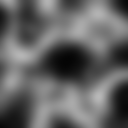
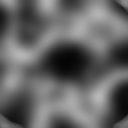
adds borders

Changed region(s): [[0.0, 0.875, 0.1875, 1.0], [0.875, 0.9062, 1.0, 1.0], [0.9062, 0.0, 1.0, 0.0938]]

diff --git a/public/app/scripts/game/client/gameSurface.js b/public/app/scripts/game/client/gameSurface.js
@@ -418,9 +418,10 @@ gameSurface.initHeightMap = function () {
 	
 	var grassTexture = new THREE.ImageUtils.loadTexture( this.MODELS_PATH + 'grass-512.png' );
 	grassTexture.wrapS = grassTexture.wrapT = THREE.RepeatWrapping; 
-	
+
 	var rockyTexture = new THREE.ImageUtils.loadTexture( this.MODELS_PATH + 'rock-512.png' );
 	rockyTexture.wrapS = rockyTexture.wrapT = THREE.RepeatWrapping; 
+	this.grassTexture = sandyTexture;
 
 	customUniforms = {
 		bumpScale: 		{ type: "f", value: this.bumpScale },
@@ -442,7 +443,6 @@ gameSurface.initHeightMap = function () {
 	}   
 	);
 
-	// var landGeometry = new THREE.CubeGeometry(gameContent.map.size.x * this.PIXEL_BY_NODE, gameContent.map.size.y * this.PIXEL_BY_NODE, 30);
 	this.landGeometry = new THREE.PlaneGeometry( gameContent.map.size.x * this.PIXEL_BY_NODE, gameContent.map.size.y * this.PIXEL_BY_NODE, 100, 100);
 
     this.planeSurface = new THREE.Mesh(this.landGeometry, customMaterial);
@@ -450,27 +450,66 @@ gameSurface.initHeightMap = function () {
     this.planeSurface.position.y = gameContent.map.size.y * this.PIXEL_BY_NODE / 2;
     this.planeSurface.position.z = -3;
 
-    // var under = new THREE.CubeGeometry( gameContent.map.size.x * this.PIXEL_BY_NODE, gameContent.map.size.y * this.PIXEL_BY_NODE, 30);
-
-    // var underSurface = new THREE.Mesh(under, new THREE.LineBasicMaterial( { color: '#007', opacity: 0.3, transparent: true} ));
-    // underSurface.position.x = gameContent.map.size.x * this.PIXEL_BY_NODE / 2 - 5;
-    // underSurface.position.y = gameContent.map.size.y * this.PIXEL_BY_NODE / 2;
-    // underSurface.position.z = -20;
-    // scene.add(underSurface)
-
-
 	var img = new Image(); 
 	img.src = this.MODELS_PATH + "heightmap.png";
 	img.onload = function () {
 		gameSurface.setHeightData(img);
 		scene.add( gameSurface.planeSurface );
+		gameSurface.addBorders();
 	};
 }
+
+gameSurface.addBorders = function () {
+  	// border on sides
+  	var borderMaterial = new THREE.LineBasicMaterial({ color: '#000', transparent: true, opacity: 0.2 });
+  	borderMaterial.side = THREE.DoubleSide;
+
+	var frontGeometry = new THREE.PlaneGeometry(gameContent.map.size.x * this.PIXEL_BY_NODE, 100, 127);
+	var frontMesh = new THREE.Mesh(frontGeometry, borderMaterial);
+	frontMesh.position.x = gameContent.map.size.x * this.PIXEL_BY_NODE / 2 - 5;
+	frontMesh.position.y = 0;
+	frontMesh.position.z = gameSurface.planeSurface.position.z;
+	frontMesh.rotation.x = Math.PI / 2;
+	var leftGeometry = new THREE.PlaneGeometry(gameContent.map.size.y * this.PIXEL_BY_NODE - 12, 100, 127);
+	var leftMesh = new THREE.Mesh(leftGeometry, borderMaterial);
+	leftMesh.position.x = -5;
+	leftMesh.position.y = gameContent.map.size.x * this.PIXEL_BY_NODE / 2 - 6;
+	leftMesh.position.z = gameSurface.planeSurface.position.z;
+	leftMesh.rotation.x = Math.PI / 2;
+	leftMesh.rotation.y = -Math.PI / 2;
+	var rightGeometry = new THREE.PlaneGeometry(gameContent.map.size.y * this.PIXEL_BY_NODE - 12, 100, 127);
+	var rightMesh = new THREE.Mesh(rightGeometry, borderMaterial);
+	rightMesh.position.x = gameContent.map.size.x * this.PIXEL_BY_NODE - 5;
+	rightMesh.position.y = gameContent.map.size.y * this.PIXEL_BY_NODE / 2 - 6;
+	rightMesh.position.z = gameSurface.planeSurface.position.z;
+	rightMesh.rotation.x = Math.PI / 2;
+	rightMesh.rotation.y = -Math.PI / 2;
+	var backGeometry = new THREE.PlaneGeometry(gameContent.map.size.x * this.PIXEL_BY_NODE, 100, 127);
+	var backMesh = new THREE.Mesh(backGeometry, borderMaterial);
+	backMesh.position.x = gameContent.map.size.x * this.PIXEL_BY_NODE / 2 - 5;
+	backMesh.position.y = gameContent.map.size.y * this.PIXEL_BY_NODE - 12;
+	backMesh.position.z = gameSurface.planeSurface.position.z;
+	backMesh.rotation.x = Math.PI / 2;
+
+	for (var x = 0; x < 127; x++) {
+		frontGeometry.vertices[x].y = height[x][0];
+		leftGeometry.vertices[x].y = height[0][127 - x];
+		rightGeometry.vertices[x].y = height[0][127 - x];
+		backGeometry.vertices[x].y = height[x][127];
+	}
+
+	scene.add(frontMesh);
+	scene.add(leftMesh);
+	scene.add(rightMesh);
+	scene.add(backMesh);
+}
+
 
 var height = [];
 
 gameSurface.setHeightData = function (img) {
     var canvas = document.createElement( 'canvas' );
+    canvas.id = 'heightDataCanvas'
     canvas.width = img.width;
     canvas.height = img.height;
     var context = canvas.getContext( '2d' );
@@ -490,7 +529,6 @@ gameSurface.setHeightData = function (img) {
     	y = (vertices[i].y - minY) / (maxY - minY) * img.height;
     	var pixIndex = (Math.floor(x) + Math.floor(y) * img.width) * 4;
     	vertices[i].z = pix[pixIndex] / 255.0 * this.bumpScale;
-
     }
 
     for (var x = 0; x < gameContent.map.size.x; x++) {
@@ -499,6 +537,7 @@ gameSurface.setHeightData = function (img) {
     		height[x][y] = pix[(x + y * img.width) * 4] / 255.0 * this.bumpScale;
     	}
     }
+    $('#heightDataCanvas').remove();
 }
 
 /**
